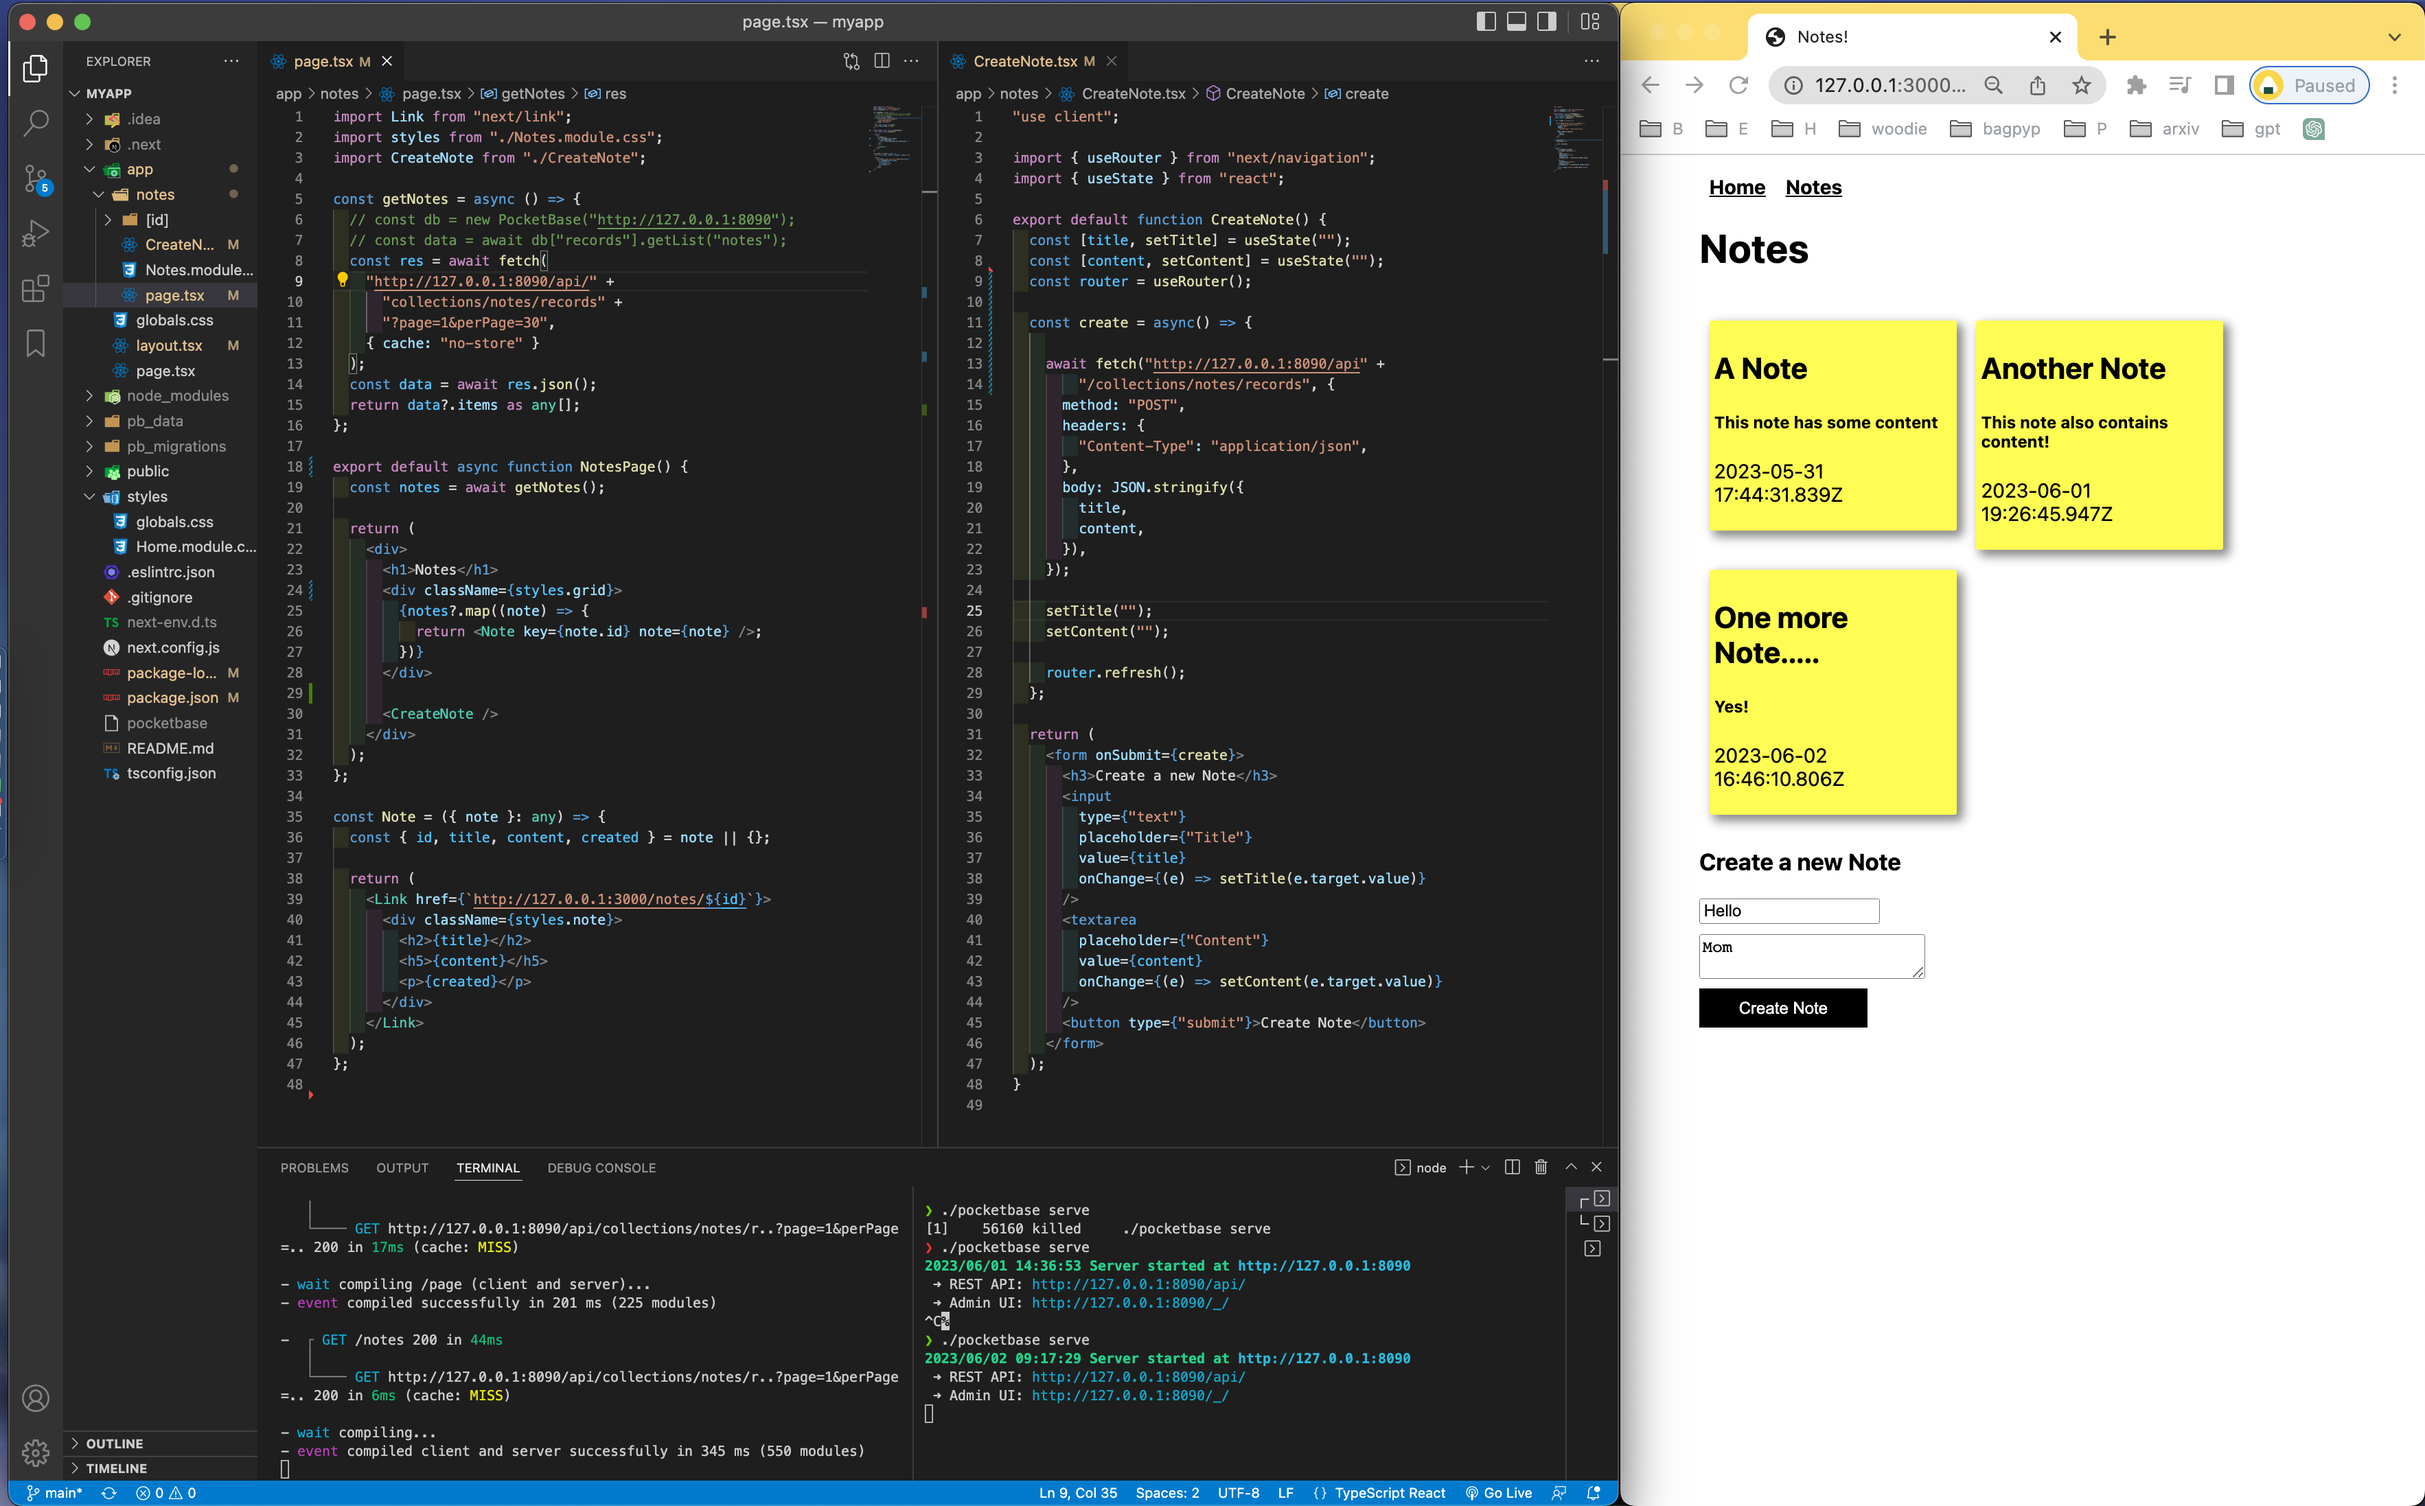
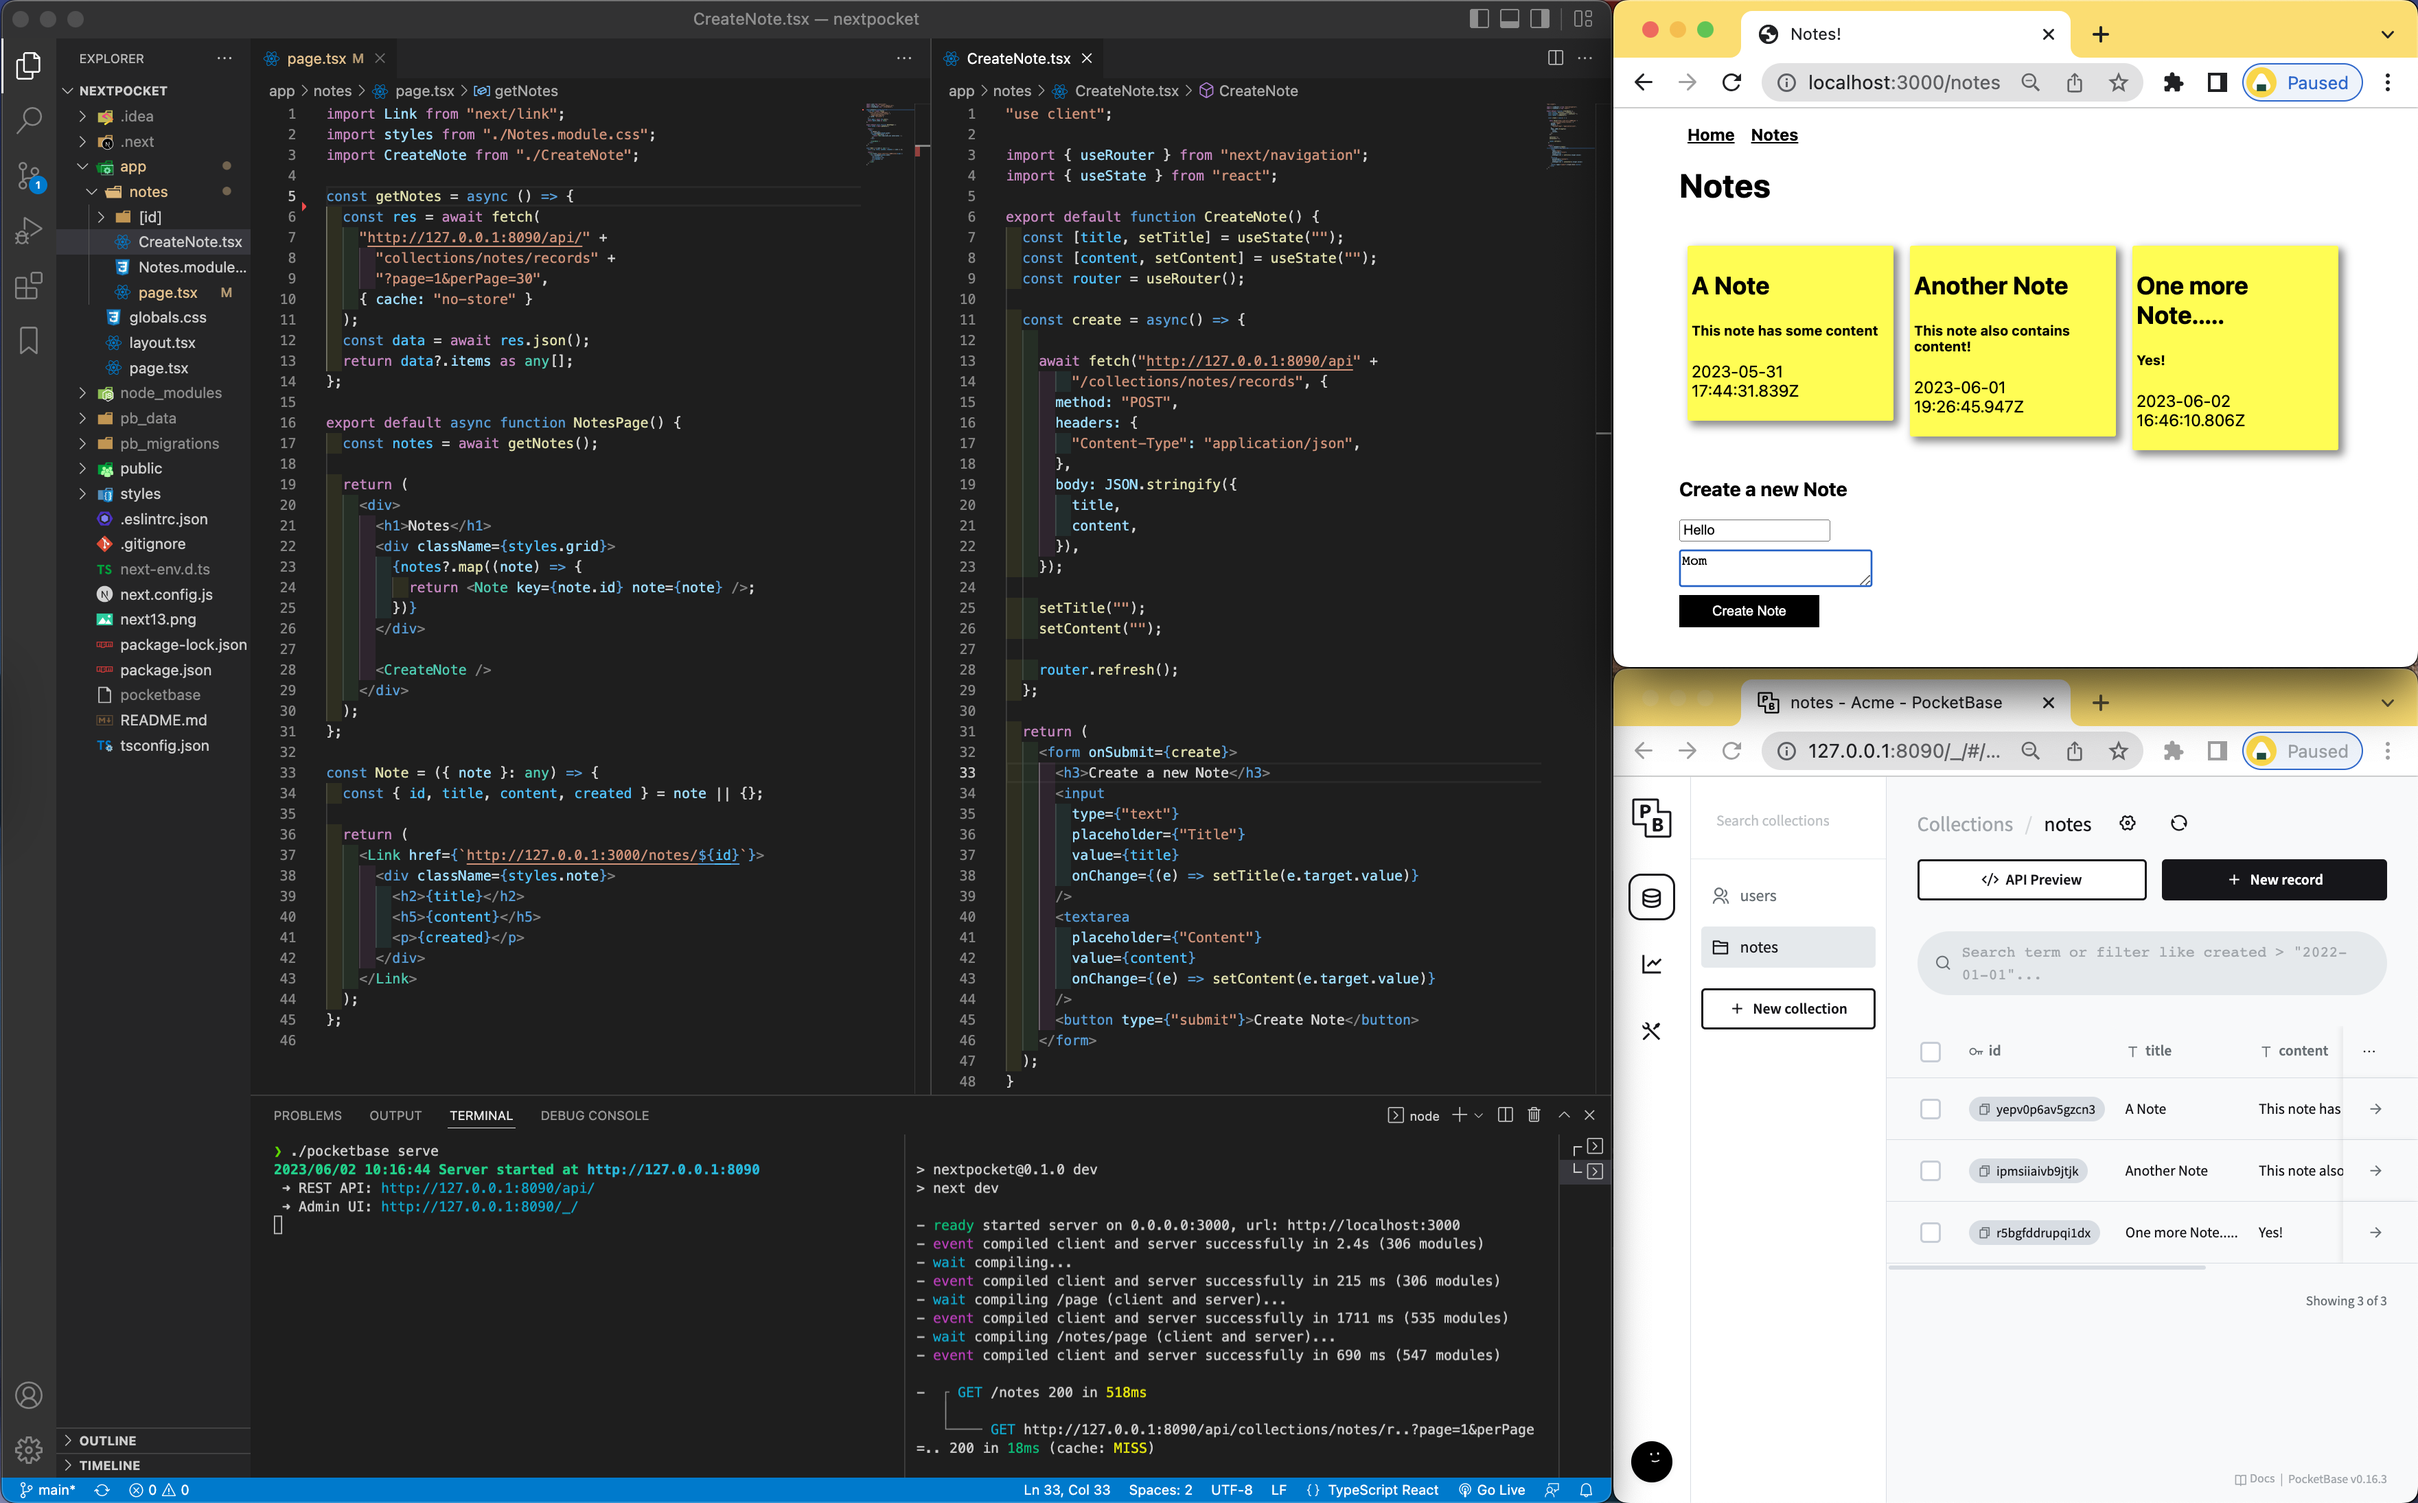
update readme pic, remove comment

diff --git a/app/notes/page.tsx b/app/notes/page.tsx
@@ -3,8 +3,6 @@ import styles from "./Notes.module.css";
 import CreateNote from "./CreateNote";
 
 const getNotes = async () => {
-  // const db = new PocketBase("http://127.0.0.1:8090");
-  // const data = await db["records"].getList("notes");
   const res = await fetch(
     "http://127.0.0.1:8090/api/" +
       "collections/notes/records" +
